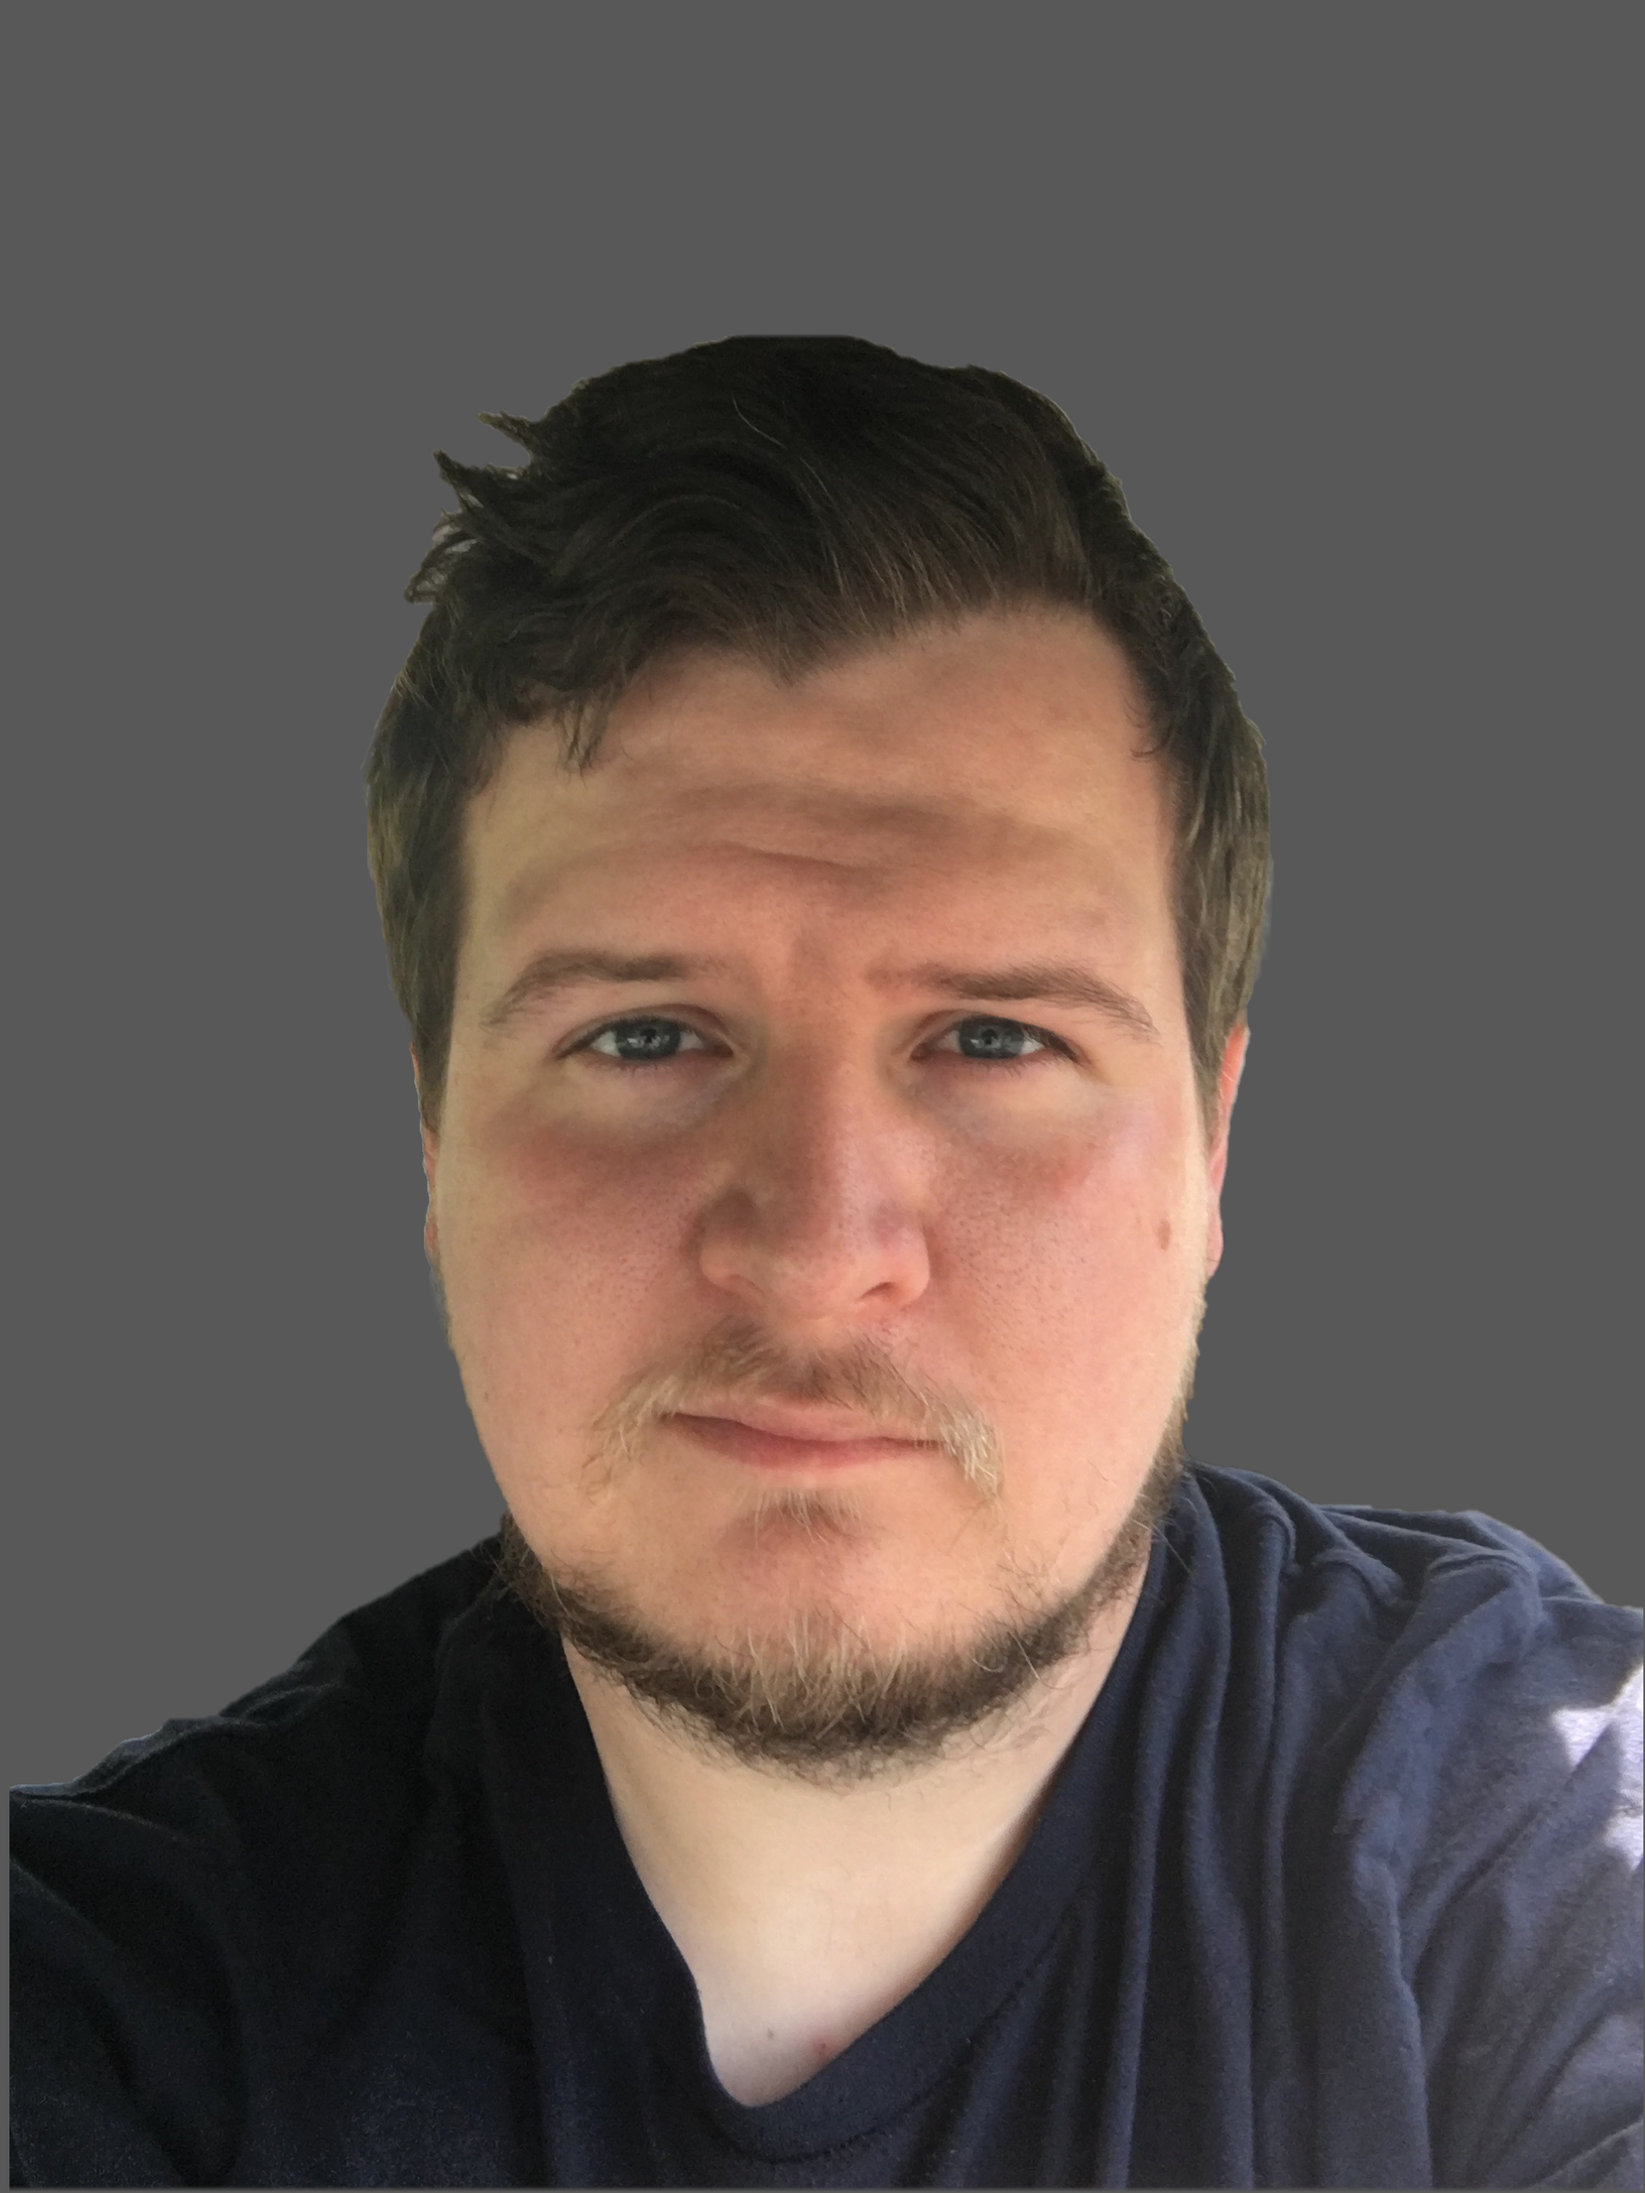
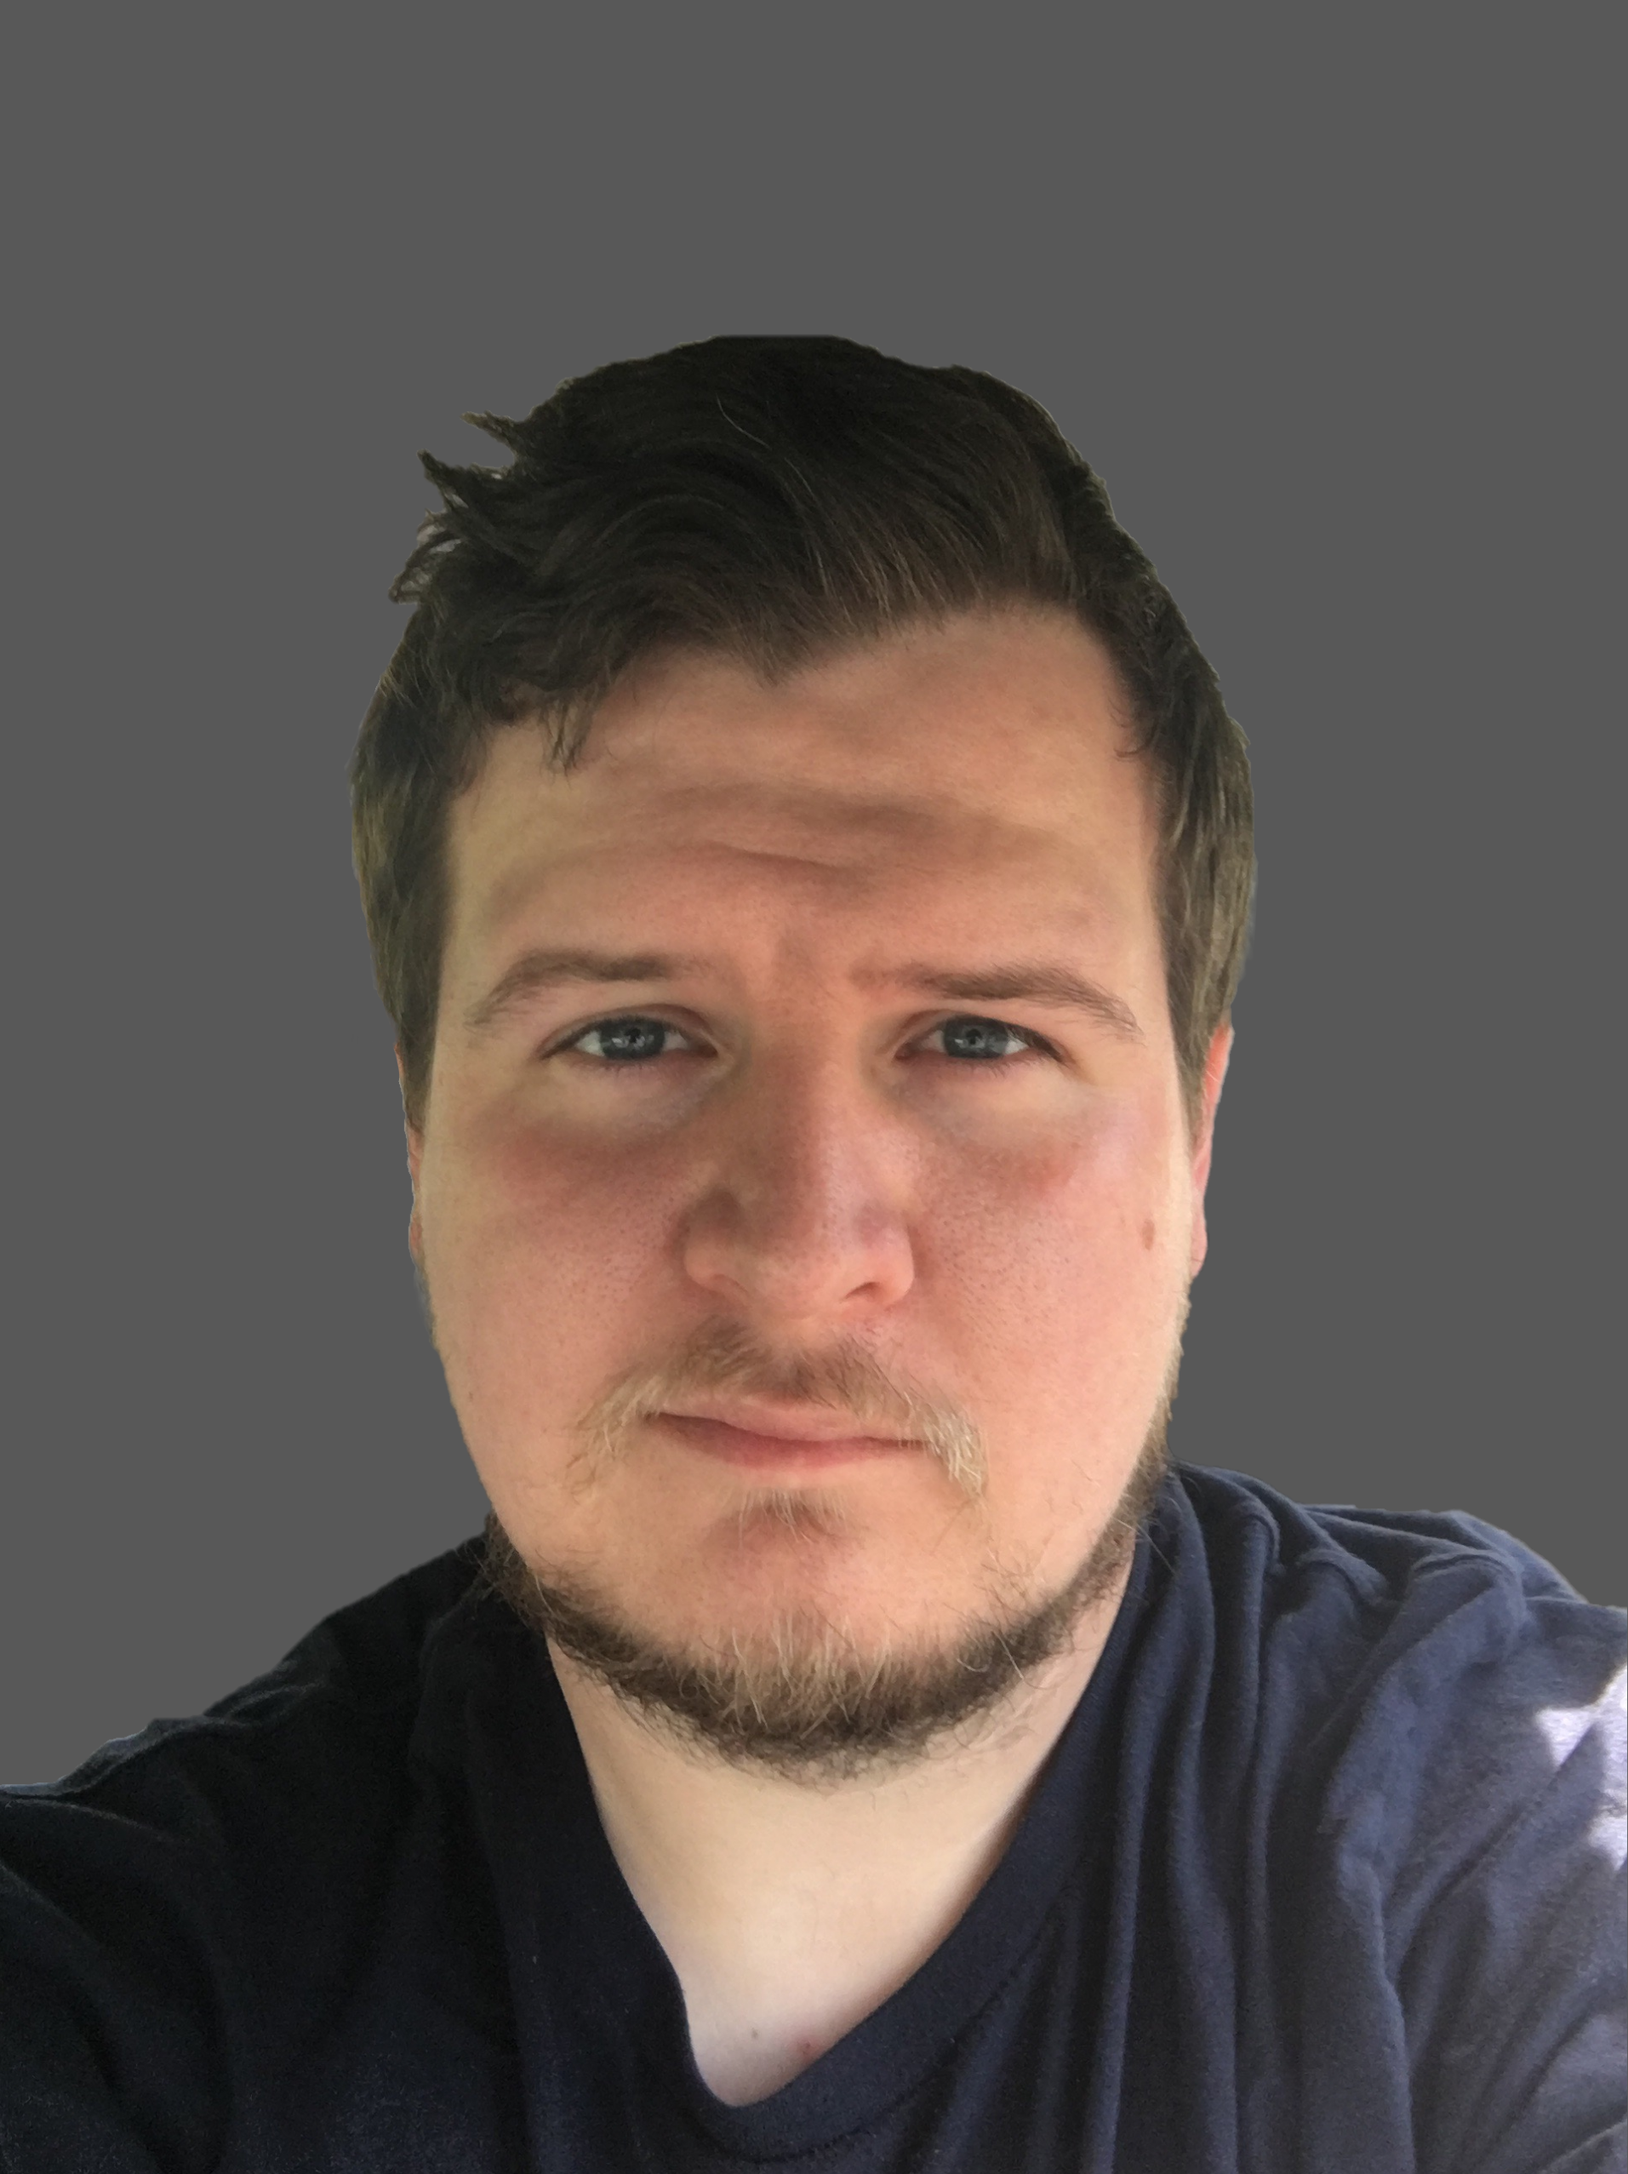
Updated Portfolio

diff --git a/index.html b/index.html
@@ -1,6 +1,5 @@
 <!DOCTYPE html>
 <html lang="en">
-
 <head>
   <meta charset="UTF-8">
   <meta name="viewport" content="width=device-width, initial-scale=1.0">
@@ -9,7 +8,6 @@
   <link rel="stylesheet" href="style.css">
   <title>Portfolio: Kevin Moore</title>
 </head>
-
 <body>
   <header>
     <nav class="navbar fixed-top navbar-expand-lg navbar-dark bg-dark">
@@ -45,19 +43,22 @@
     <br>
     <div class="container">
       <div class="row">
-        <div class="col-8">
-          <img src="assets/Profile.png" class="card-img-top" id="profilePic">
-        </div>
-        <div class="col-4">
+        <div class="col-sm-6">
           <div class="card">
             <div class="card-body text-center">
               <h4 class="card-title">About Me</h4>
-              <p class="card-text">My name is Kevin Moore. I am a Junior Software Developer. It has always been my goal to work with technology, for people. While I am new to this field it will be apparent that my motivations, dedication, and desire to suceed will push me forward. I am currently seeking an opportunity to start my career, not my job.</p>
+              <p class="card-text">My name is Kevin Moore. I am a Junior Software Developer. It has always been my
+                goal to work with technology, for people. While I am new to this field it will be apparent that my
+                motivations, dedication, and desire to suceed will push me forward. I am currently seeking an
+                opportunity to start my career, not my job.</p>
             </div>
           </div>
         </div>
+        <div class="col-sm-6">
+          <img src="assets/Profile.png" class="card-img-top">
+        </div>
       </div>
-      <br id="projects">
+      <br>
       <br>
       <br>
       <div class="container">
@@ -70,7 +71,7 @@
                 <h4 class="card-title">C#</h4>
                 <div class="row">
                   <div class="col">
-                    <p>C# Fundamentals Work</p>
+                    <p>Web API</p>
                   </div>
                   <div class="col">
                     <p>C# Challenges</p>
@@ -81,8 +82,8 @@
                 </div>
                 <div class="row">
                   <div class="col">
-                    <a href="https://codepen.io/Alteridin/pen/LYVmgNj" class="projectImages" target="_blank"><img
-                        src="assets/csharpfundamentals.png" class="projectImages"></a>
+                    <a href="https://github.com/Alteridin/ComputerStoreAPI" class="projectImages" target="_blank"><img
+                        src="assets/WebAPI.png" class="projectImages"></a>
                   </div>
                   <div class="col">
                     <a href="https://codepen.io/Alteridin/pen/LYVmgNj" class="projectImages" target="_blank"><img
@@ -102,7 +103,7 @@
                     <p>CSS Creature</p>
                   </div>
                   <div class="col">
-                    <p>Forms and Iput</p>
+                    <p>Forms and Input</p>
                   </div>
                   <div class="col">
                     <p>Static Storefront (HTML and CSS only)</p>
@@ -156,7 +157,8 @@
               <div class="card" id="contact">
                 <div class="card-body text-center">
                   <h4 class="card-title">Contact</h4>
-                  <a href="mailto:kevinmoore.tech@gmail.com" class="btn btn-primary" target="_blank">Email: kevinmoore.tech@gmail.com</a>
+                  <a href="mailto:kevinmoore.tech@gmail.com" class="btn btn-primary" target="_blank">Email:
+                    kevinmoore.tech@gmail.com</a>
                   <p>Also, feel free to contact me through any of the links listed above if applicable...</p>
                 </div>
               </div>
@@ -170,7 +172,7 @@
   <br><br><br>
   <footer>
     <nav class="navbar navbar-expand-lg navbar-dark bg-dark text-right">
-        <a class="navbar-brand text-right" href="#">Thank You</a>
+      <a class="navbar-brand text-right" href="#">Thank You</a>
       </div>
     </nav>
   </footer>

diff --git a/style.css b/style.css
@@ -30,11 +30,6 @@ body
     width: 100vw;
 }
 
-#profilePic
-{
-    border-radius: 20px;
-}
-
 .btn
 {
     margin: 10px;
